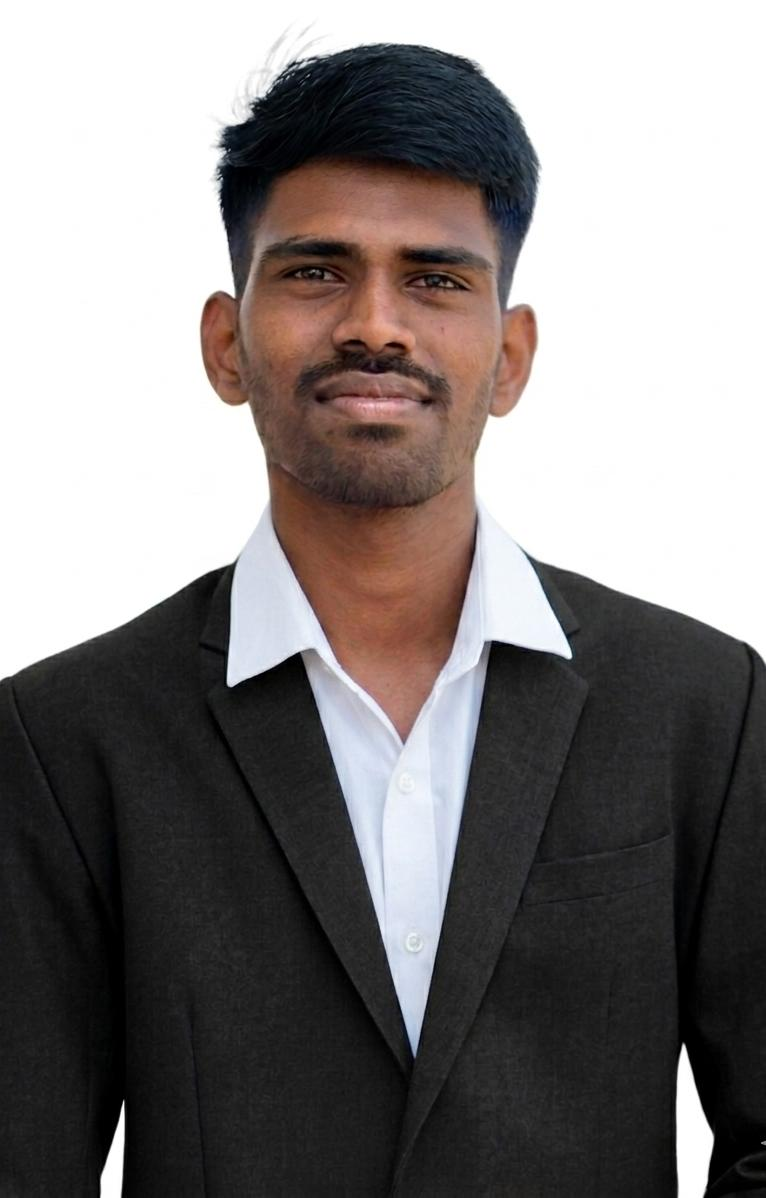
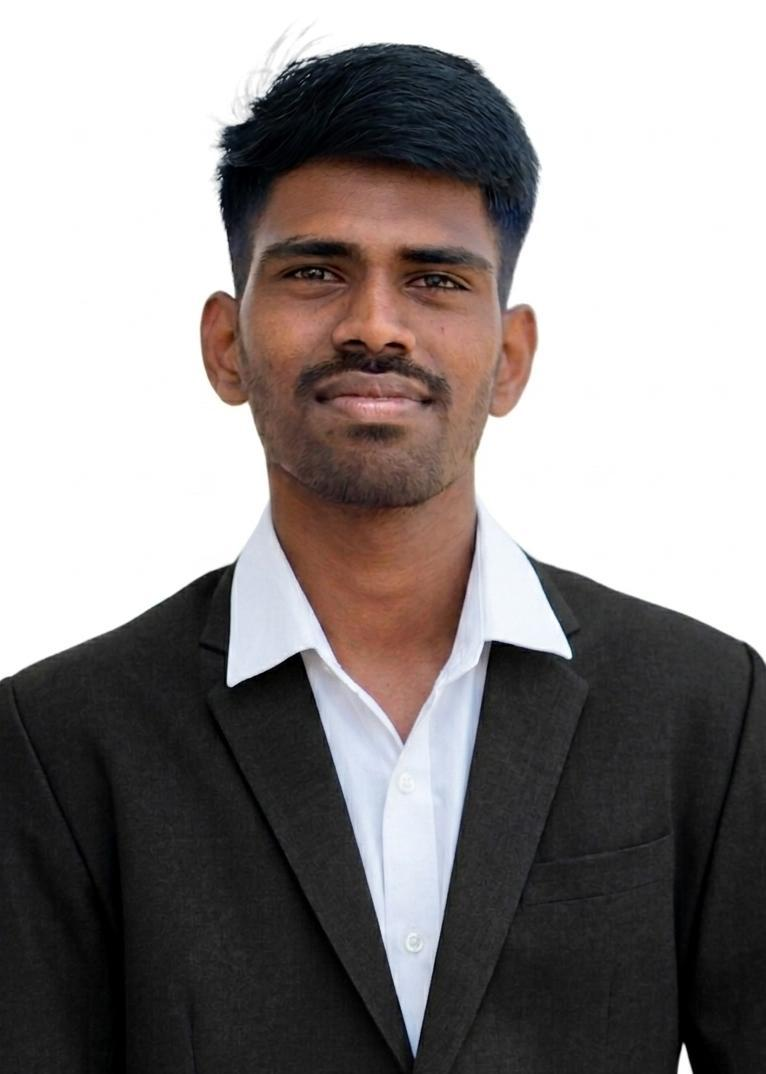
chore: push finalized hero visuals and image configurations

diff --git a/src/sections/Hero.tsx b/src/sections/Hero.tsx
@@ -11,7 +11,7 @@ const slides = [
     label: "AI INTELLIGENCE",
     headline: "Unlock the Power of AI for Your Business.",
     body: "Automating, analyzing, and accelerating workflows across industries.",
-    image: "https://media.licdn.com/dms/image/v2/D4E12AQFs_3637K_1Jg/article-cover_image-shrink_600_2000/article-cover_image-shrink_600_2000/0/1724172508884?e=2147483647&v=beta&t=SI6ZrJ9p1110eNwYK_d5dnX1XXW07_hvbFZ0KDO9WVY",
+    image: "https://desimonthdate.com/wp-content/uploads/2026/01/A-modern-business-environment-showcasing-AI-applications.-In-the-foreground-two-diverse-1024x585.png",
     href: "/what-we-do"
   },
   {

diff --git a/next.config.ts b/next.config.ts
@@ -23,6 +23,14 @@ const nextConfig: NextConfig = {
         protocol: "https",
         hostname: "media.istockphoto.com",
       },
+      {
+        protocol: "https",
+        hostname: "www.sterlingtt.com",
+      },
+      {
+        protocol: "https",
+        hostname: "desimonthdate.com",
+      },
     ],
   },
 };
